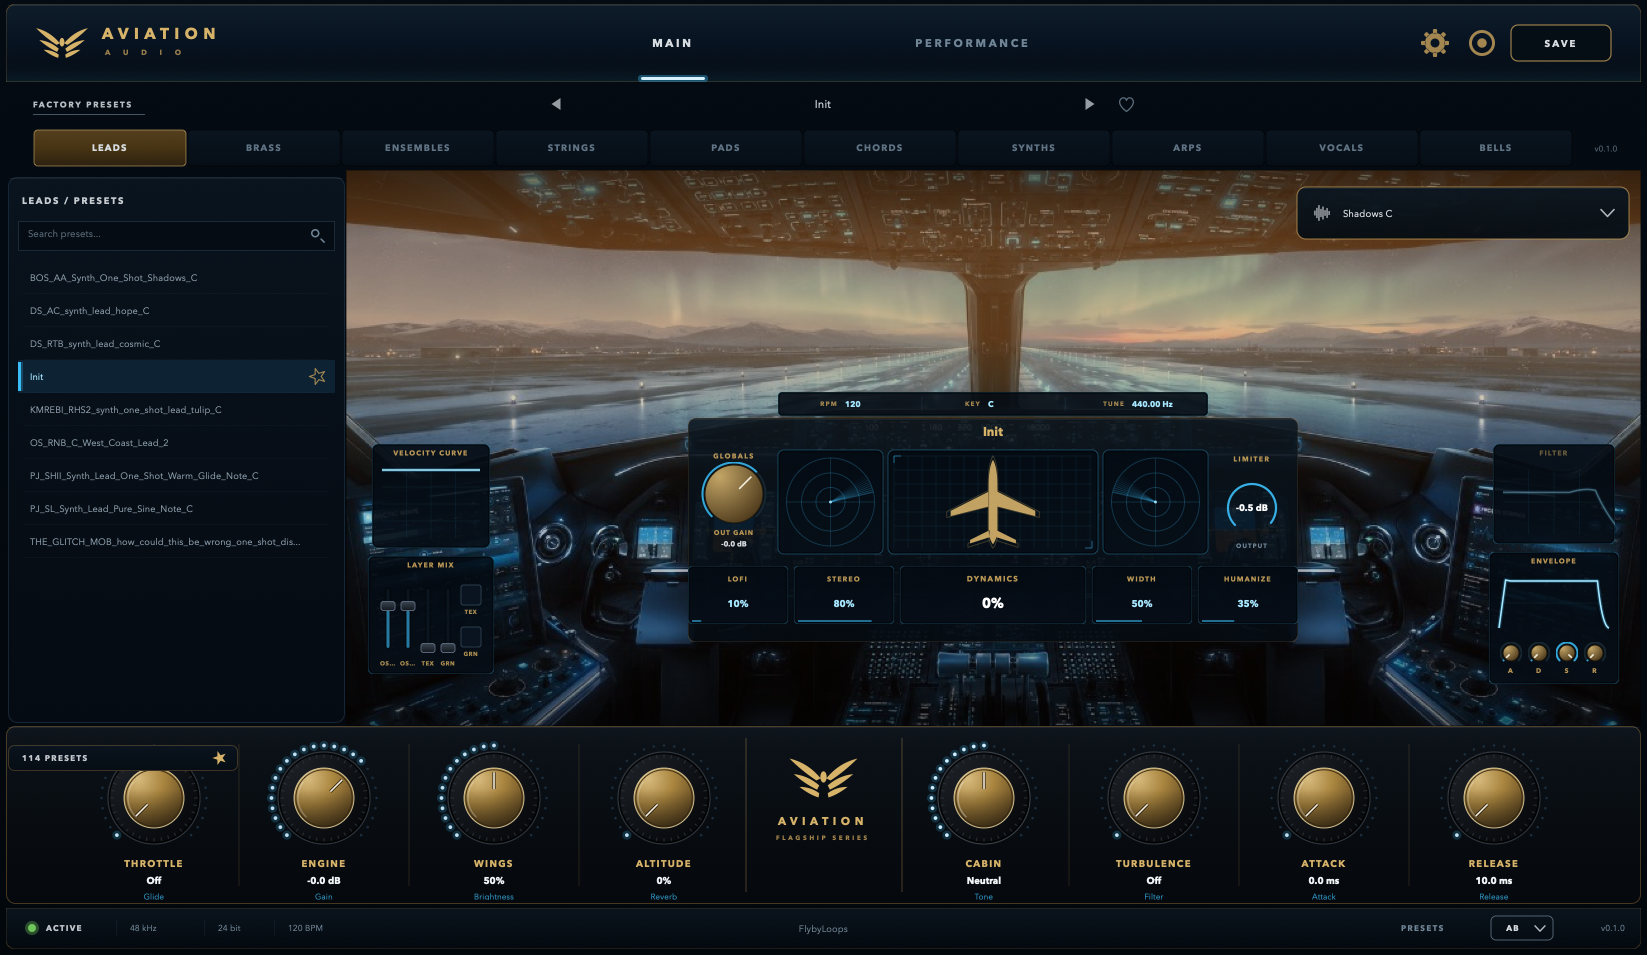
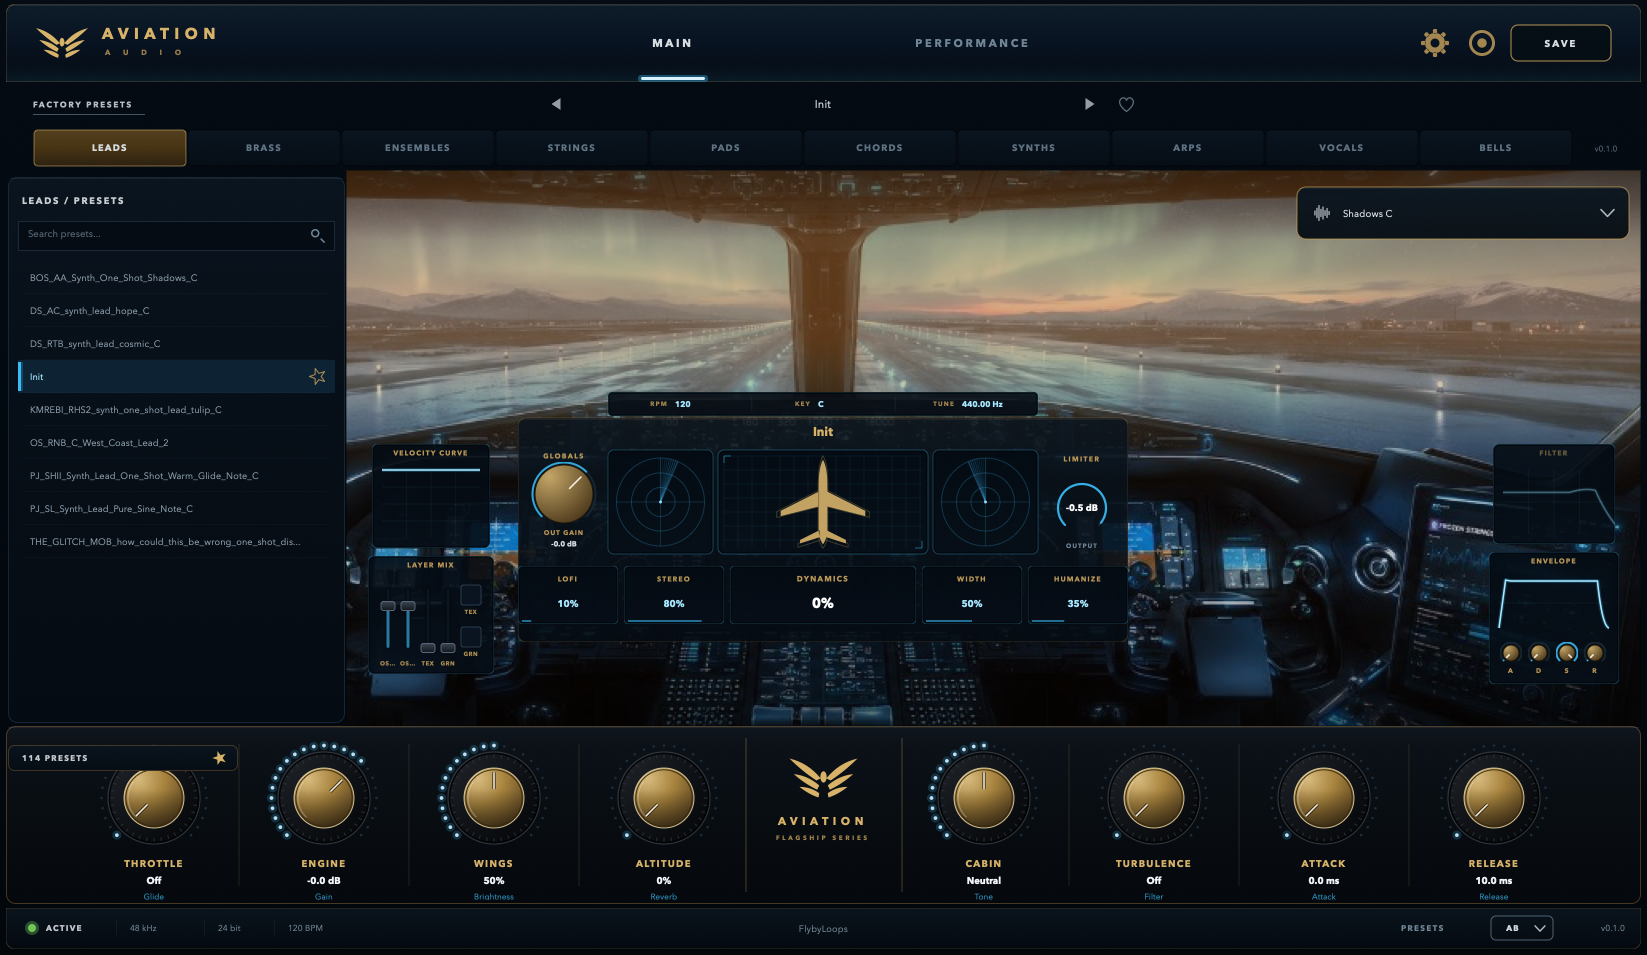
Stack the cockpit, dashboard and brand block on one center axis
The cockpit photo was centered inside the cockpit region, which the
preset browser pushes right — so its central pillar (and the dashboard
cluster aligned to it) sat ~170px right of the window center while the
macro deck's AVIATION brand sat exactly on it. The photo is now cover-
scaled and panned so the pillar lands on the global center axis, and
the dashboard is placed on that same axis, so pillar, blueprint,
title, RPM strip and brand block all line up.

diff --git a/Source/GUI/Aviation/CockpitBackground.cpp b/Source/GUI/Aviation/CockpitBackground.cpp
@@ -47,9 +47,18 @@ void CockpitBackground::paint (juce::Graphics& g)
 
     if (photo.isValid())
     {
-        // Cover placement preserves the cockpit perspective (no distortion).
-        g.drawImage (photo, r, juce::RectanglePlacement::fillDestination
-                                   | juce::RectanglePlacement::centred);
+        // Cover placement, panned so the cockpit's central pillar (at the
+        // horizontal center of the source photo) sits on the interface's
+        // global center axis. The cockpit region is pushed right by the
+        // preset browser, so plain centering would leave the pillar — and
+        // everything stacked on it — visibly right of the window center.
+        const float axisX = (float) (Aviation::kDesignW / 2) - (float) Aviation::cockpitBounds().getX();
+        const float halfW = juce::jmax (axisX, r.getWidth() - axisX);
+        const float scale = juce::jmax (halfW * 2.0f / (float) photo.getWidth(),
+                                        r.getHeight() / (float) photo.getHeight());
+        const float drawW = (float) photo.getWidth() * scale;
+        const float drawH = (float) photo.getHeight() * scale;
+        g.drawImage (photo, { axisX - drawW * 0.5f, (r.getHeight() - drawH) * 0.5f, drawW, drawH });
     }
 
     if (! usingSunsetAsset)

diff --git a/Source/GUI/Aviation/AviationMainView.cpp b/Source/GUI/Aviation/AviationMainView.cpp
@@ -387,8 +387,9 @@ void AviationMainView::resized()
 
     const auto cockpit = Aviation::cockpitBounds();
 
-    // center console
-    dashboard->setBounds (cockpit.getCentreX() - 305, cockpit.getY() + 222, 610, 250);
+    // center console — on the global center axis so it stacks over the
+    // cockpit pillar and the macro deck's brand block
+    dashboard->setBounds (Aviation::kDesignW / 2 - 305, cockpit.getY() + 222, 610, 250);
 
     // left cockpit side panels
     velocityPanel->setBounds (cockpit.getX() + 26, cockpit.getY() + 274, 118, 104);
